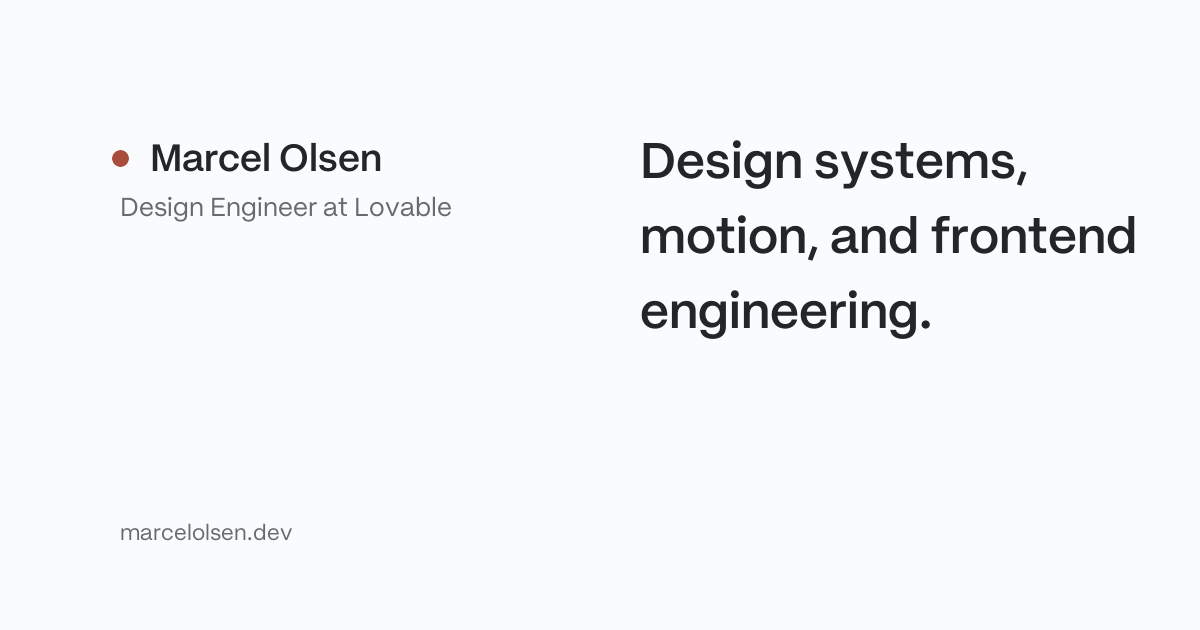
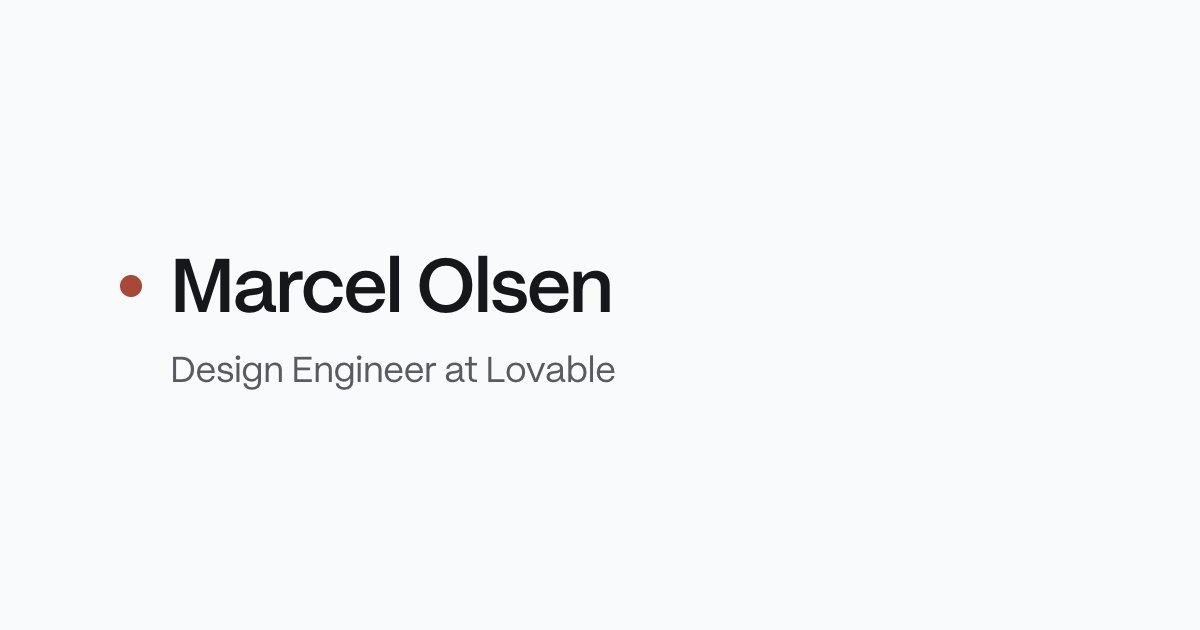
sync with production, tone down accent, add og video
Production had been deployed from uncommitted changes; this brings
them into git. On top of that: drop the orange hover/focus states,
rewrite the intro, animate the company-link arrows, and replace the
social preview with a simpler image plus an og:video.

diff --git a/index.html b/index.html
@@ -5,20 +5,24 @@
   <meta name="viewport" content="width=device-width, initial-scale=1">
   <meta name="color-scheme" content="light">
   <title>Marcel Olsen — Design Engineer</title>
-  <meta name="description" content="Marcel Olsen is a design engineer at Lovable, working across design systems, motion, and high-fidelity frontend engineering.">
+  <meta name="description" content="Marcel Olsen is a design engineer at Lovable, working across design systems, frontend tooling, and product engineering.">
   <link rel="canonical" href="https://marcelolsen.dev/">
   <meta property="og:type" content="website">
   <meta property="og:url" content="https://marcelolsen.dev/">
   <meta property="og:title" content="Marcel Olsen — Design Engineer">
-  <meta property="og:description" content="Design engineer at Lovable, working across design systems, motion, and high-fidelity frontend engineering.">
+  <meta property="og:description" content="Design engineer at Lovable. Design systems, frontend tooling, and product engineering.">
   <meta property="og:image" content="https://marcelolsen.dev/social/og.png">
   <meta property="og:image:type" content="image/png">
   <meta property="og:image:width" content="1200">
   <meta property="og:image:height" content="630">
   <meta property="og:image:alt" content="Marcel Olsen, Design Engineer at Lovable">
+  <meta property="og:video" content="https://marcelolsen.dev/social/og.mp4">
+  <meta property="og:video:type" content="video/mp4">
+  <meta property="og:video:width" content="1200">
+  <meta property="og:video:height" content="630">
   <meta name="twitter:card" content="summary_large_image">
   <meta name="twitter:title" content="Marcel Olsen — Design Engineer">
-  <meta name="twitter:description" content="Design engineer at Lovable, working across design systems, motion, and high-fidelity frontend engineering.">
+  <meta name="twitter:description" content="Design engineer at Lovable. Design systems, frontend tooling, and product engineering.">
   <meta name="twitter:image" content="https://marcelolsen.dev/social/og.png">
   <meta name="twitter:image:alt" content="Marcel Olsen, Design Engineer at Lovable">
   <meta name="theme-color" content="#fafbfc">
@@ -153,7 +157,7 @@
       display: inline-flex;
       align-items: center;
       gap: 0.5em;
-      font-size: 1rem;
+      font-size: 1.125rem;
       font-weight: 600;
       letter-spacing: -0.015em;
     }
@@ -172,6 +176,7 @@
     .role {
       color: var(--muted);
       margin-top: 2px;
+      font-size: 0.9375rem;
     }
 
     .company-link {
@@ -182,17 +187,21 @@
       text-decoration-thickness: 1px;
       text-underline-offset: 0.18em;
       text-decoration-skip-ink: auto;
-      transition: text-decoration-color 120ms var(--ease-out);
+      transition: color 180ms var(--ease-out), text-decoration-color 180ms var(--ease-out);
     }
 
     .company-link::after {
-      content: " ↗";
+      content: "↗";
+      display: inline-block;
+      margin-left: 0.25em;
       color: currentColor;
       font-size: 0.78em;
+      transition: transform 200ms var(--ease);
     }
 
     @media (hover: hover) and (pointer: fine) {
       .company-link:hover { text-decoration-color: currentColor; }
+      .company-link:hover::after { transform: translate(2px, -2px); }
     }
 
     .company-link:focus-visible { text-decoration-color: currentColor; }
@@ -215,7 +224,7 @@
 
     .section-label {
       font-size: 0.875rem;
-      font-weight: 500;
+      font-weight: 400;
       color: var(--muted);
       letter-spacing: 0;
       margin-bottom: 6px;
@@ -235,7 +244,12 @@
     a.row,
     button.row,
     .project-preview > .row {
-      transition: background-color 160ms ease;
+      transition: background-color 180ms var(--ease-out);
+    }
+
+    a.row:focus-visible,
+    button.row:focus-visible {
+      background: var(--wash);
     }
 
     @media (hover: hover) and (pointer: fine) {
@@ -246,6 +260,11 @@
       }
 
       a.row:hover .row-arrow { transform: translate(2px, -2px); }
+    }
+
+    a.row:active,
+    button.row:active {
+      background: color-mix(in oklch, var(--ink) 7%, transparent);
     }
 
     .row-top {
@@ -266,20 +285,21 @@
       color: var(--muted);
       margin-left: 4px;
       transform: translate(0, 0);
-      transition: transform 200ms var(--ease);
+      transition: transform 200ms var(--ease), color 180ms var(--ease-out);
     }
 
     .row-year {
       color: var(--muted);
-      font-size: 0.875rem;
+      font-size: 0.8125rem;
       font-variant-numeric: tabular-nums;
       flex-shrink: 0;
     }
 
     .row-desc {
+      display: block;
       color: var(--muted);
       font-size: 0.9375rem;
-      margin-top: 2px;
+      margin-top: 4px;
       max-width: 30em;
       text-wrap: pretty;
     }
@@ -485,6 +505,9 @@
     @media (prefers-reduced-motion: reduce) {
       [data-animate] { animation: none; }
       .company-link,
+      .company-link::after,
+      .row-title,
+      .contact-value,
       .row-hint,
       .row-hint-state,
       .row-arrow,
@@ -535,9 +558,8 @@
       <h1 class="name" data-animate style="--d: 0ms"><span class="name-dot" aria-hidden="true"></span>Marcel Olsen</h1>
       <p class="role" data-animate style="--d: 50ms">Design Engineer at <a class="company-link" href="https://lovable.dev" target="_blank" rel="noopener noreferrer">Lovable</a></p>
       <p class="intro" data-animate style="--d: 100ms">
-        I work across design systems, motion, and high-fidelity frontend engineering.
-        Previously a creative technologist at <a class="company-link" href="https://asana.com" target="_blank" rel="noopener noreferrer">Asana</a>, I shipped interactive experiences used
-        by millions. I care about performance and the details people feel before they notice.
+        Design systems, frontend tooling, and product engineering.
+        Previously at <a class="company-link" href="https://asana.com" target="_blank" rel="noopener noreferrer">Asana</a>.
       </p>
     </header>
 
@@ -551,7 +573,7 @@
                 <span class="row-title">State of AI at Work<span class="row-arrow" aria-hidden="true">&#8599;</span></span>
                 <time class="row-year" datetime="2025">2025</time>
               </span>
-              <span class="row-desc">Interactive report on Asana's annual AI research. Awwwards Honorable Mention.</span>
+              <span class="row-desc">Asana's annual AI research, made interactive.</span>
             </a>
           </li>
           <li id="year-in-review" class="project-preview" data-yir-preview-target>
@@ -566,7 +588,7 @@
                   <time class="row-year" datetime="2025">2025</time>
                 </span>
               </span>
-              <span class="row-desc">Personalized recap across a 12-slide, reels-like experience. Custom 2D physics and a motion system built end to end.</span>
+              <span class="row-desc">A personalised year in review, built with custom physics and motion.</span>
             </div>
           </li>
           <li>
@@ -575,7 +597,7 @@
                 <span class="row-title">Mini React<span class="row-arrow" aria-hidden="true">&#8599;</span></span>
                 <span class="row-year">Ongoing</span>
               </span>
-              <span class="row-desc">A React-like library built from scratch: virtual DOM, reconciliation, hooks, fiber scheduling.</span>
+              <span class="row-desc">A React-like renderer built from scratch.</span>
             </a>
           </li>
         </ul>
@@ -615,7 +637,7 @@
     </main>
 
     <footer data-animate style="--d: 270ms">
-      <span>&copy; <span id="year">2026</span> Marcel Olsen</span>
+      <span>Marcel Olsen</span>
       <span class="sr-only sr-status" role="status" aria-live="polite"></span>
     </footer>
   </div>
@@ -900,9 +922,6 @@
         if (document.hidden) hidePreview();
       });
     })();
-
-    // ---------- Current year ----------
-    document.getElementById('year').textContent = new Date().getFullYear();
 
     // ---------- Copy email (address assembled from parts to keep scrapers honest) ----------
     var copyButton = document.querySelector('[data-copy-email]');

diff --git a/social/og.html b/social/og.html
@@ -1,0 +1,61 @@
+<!doctype html>
+<!-- Source for og.png and og.mp4. Regenerate from the repo root:
+  C="/Applications/Google Chrome.app/Contents/MacOS/Google Chrome"
+  "$C" --headless --hide-scrollbars --window-size=1200,630 --screenshot=social/og.png social/og.html
+  mkdir -p /tmp/og && for i in $(seq 0 89); do "$C" --headless --hide-scrollbars --window-size=1200,630 \
+    --screenshot=/tmp/og/$(printf %03d $i).png "file://$PWD/social/og.html?t=$((i*1000/30))"; done
+  ffmpeg -y -framerate 30 -i /tmp/og/%03d.png -c:v libx264 -pix_fmt yuv420p -crf 20 -preset slow \
+    -movflags +faststart social/og.mp4 -->
+<meta charset="utf-8">
+<style>
+  @font-face { font-family: Mori; font-weight: 400; src: url("../fonts/site/PPMori-400-latin.woff2"); }
+  @font-face { font-family: Mori; font-weight: 600; src: url("../fonts/site/PPMori-600-latin.woff2"); }
+  html, body { margin: 0; width: 1200px; height: 630px; overflow: hidden; }
+  body {
+    background: oklch(0.985 0.002 250);
+    color: oklch(0.205 0.007 250);
+    font-family: Mori, system-ui, sans-serif;
+    -webkit-font-smoothing: antialiased;
+    display: flex;
+    flex-direction: column;
+    justify-content: center;
+    padding: 0 120px;
+    box-sizing: border-box;
+  }
+  h1 {
+    display: flex;
+    align-items: center;
+    gap: 28px;
+    margin: 0;
+    font-size: 76px;
+    font-weight: 600;
+    letter-spacing: -0.025em;
+  }
+  h1::before {
+    content: "";
+    width: 22px;
+    height: 22px;
+    border-radius: 50%;
+    background: oklch(0.525 0.13 31);
+  }
+  p {
+    margin: 14px 0 0 50px;
+    font-size: 36px;
+    color: oklch(0.47 0.007 250);
+    letter-spacing: -0.01em;
+  }
+  /* Same entrance as the site. Frozen at ?t=<ms> so each video frame is a screenshot. */
+  @keyframes enter { from { opacity: 0; transform: translateY(16px); } }
+  h1, p {
+    animation: enter 800ms cubic-bezier(0.22, 1, 0.36, 1) both paused;
+    animation-delay: calc(var(--d) - var(--t, 10000ms));
+  }
+  h1 { --d: 200ms; }
+  p { --d: 320ms; }
+</style>
+<script>
+  const t = new URLSearchParams(location.search).get('t');
+  if (t) document.documentElement.style.setProperty('--t', t + 'ms');
+</script>
+<h1>Marcel Olsen</h1>
+<p>Design Engineer at Lovable</p>
